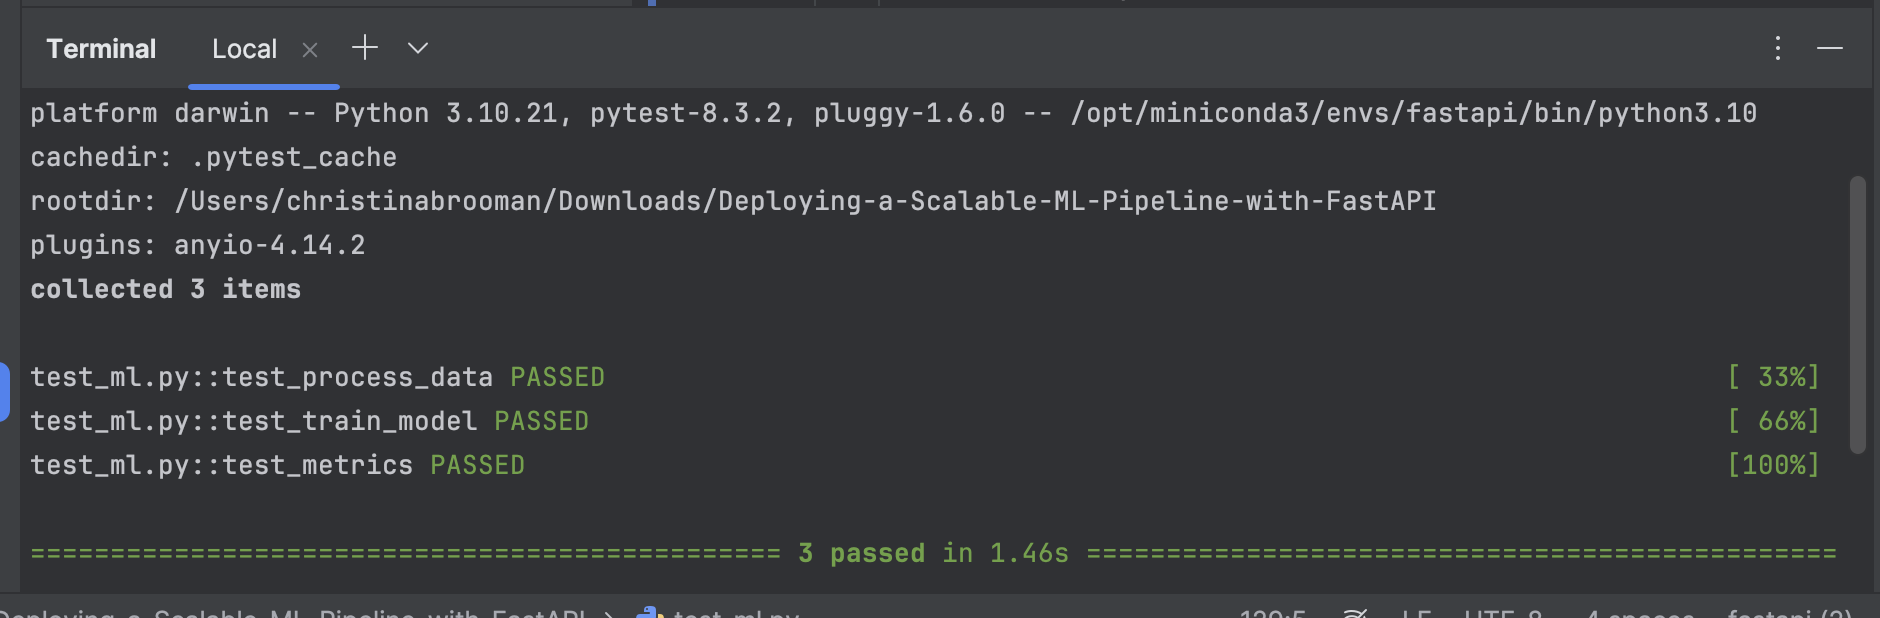
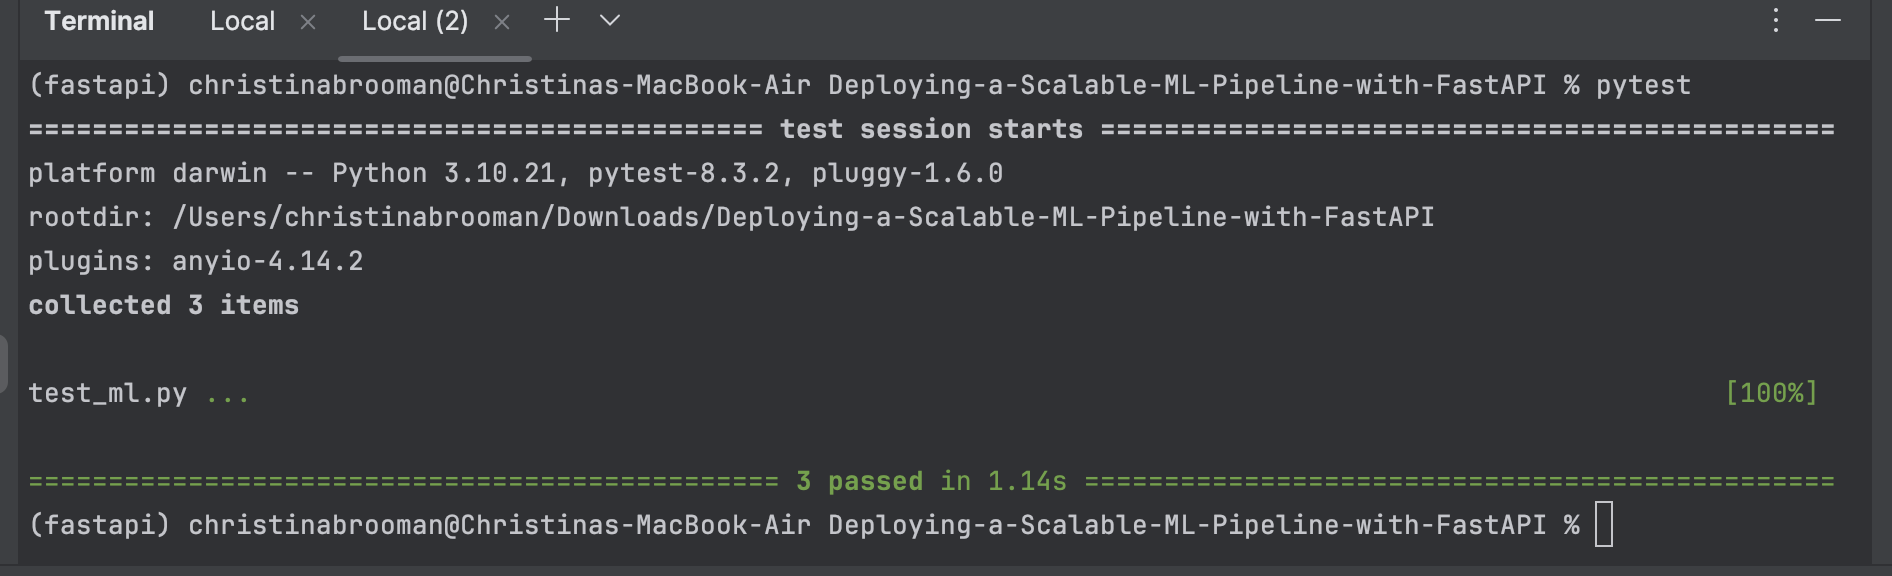
update test_metrics function, update for flake8, update unit_test.png

diff --git a/ml/data.py b/ml/data.py
@@ -4,26 +4,28 @@ from sklearn.preprocessing import LabelBinarizer, OneHotEncoder
 
 def process_data(
 
-    X, categorical_features=[], label=None, training=True, encoder=None, lb=None
+    X, categorical_features=[], label=None, training=True, encoder=None,
+        lb=None
 ):
     """ Process the data used in the machine learning pipeline.
 
-    Processes the data using one hot encoding for the categorical features and a
-    label binarizer for the labels. This can be used in either training or
-    inference/validation.
+    Processes the data using one hot encoding for the categorical features
+    and a label binarizer for the labels. This can be used in either
+    training or inference/validation.
 
-    Note: depending on the type of model used, you may want to add in functionality that
-    scales the continuous data.
+    Note: depending on the type of model used, you may want to add in
+    functionality that scales the continuous data.
 
     Inputs
     ------
     X : pd.DataFrame
-        Dataframe containing the features and label. Columns in `categorical_features`
+        Dataframe containing the features and label. Columns in
+        `categorical_features`
     categorical_features: list[str]
         List containing the names of the categorical features (default=[])
     label : str
-        Name of the label column in `X`. If None, then an empty array will be returned
-        for y (default=None)
+        Name of the label column in `X`. If None, then an empty array will be
+        returned for y (default=None)
     training : bool
         Indicator if training mode or inference/validation mode.
     encoder : sklearn.preprocessing._encoders.OneHotEncoder
@@ -38,11 +40,11 @@ def process_data(
     y : np.array
         Processed labels if labeled=True, otherwise empty np.array.
     encoder : sklearn.preprocessing._encoders.OneHotEncoder
-        Trained OneHotEncoder if training is True, otherwise returns the encoder passed
-        in.
+        Trained OneHotEncoder if training is True, otherwise returns the
+        encoder passed in.
     lb : sklearn.preprocessing._label.LabelBinarizer
-        Trained LabelBinarizer if training is True, otherwise returns the binarizer
-        passed in.
+        Trained LabelBinarizer if training is True, otherwise returns the
+        binarizer passed in.
     """
     if label is not None:
         y = X[label]
@@ -68,7 +70,10 @@ def process_data(
 
 
 def apply_label(inference):
-    """ Convert the binary label in a single inference sample into string output."""
+    """
+    Convert the binary label in a single inference
+    sample into string output.
+    """
     if inference[0] == 1:
         return ">50K"
     elif inference[0] == 0:

diff --git a/test_ml.py b/test_ml.py
@@ -3,6 +3,7 @@ import pytest
 from sklearn.ensemble import RandomForestClassifier
 from ml.data import process_data
 from ml.model import compute_model_metrics, train_model
+import numpy as np
 
 
 # Fixture
@@ -126,33 +127,16 @@ def test_train_model(mock_census_data):
 # Test three
 def test_metrics(mock_census_data):
     """
-    This function tests if the metrics function returns the expected outputs.
+    This function tests if the metrics function returns the exact outputs
+    for precision, recall, and fbeta
     """
-    cat_features = [
-        "workclass",
-        "education",
-        "marital-status",
-        "occupation",
-        "relationship",
-        "race",
-        "sex",
-        "native-country",
-    ]
-    X, y, _, _ = process_data(
-        mock_census_data,
-        categorical_features=cat_features,
-        label="salary",
-        training=True,
-    )
-    model = train_model(X, y)
-    preds = model.predict(X)
+    # Actual values
+    y = np.array([1, 1, 1, 0])
+    preds = np.array([1, 1, 0, 0])
+
     precision, recall, fbeta = compute_model_metrics(y, preds)
 
-    # Confirms all metrics are returned as floats
-    assert isinstance(precision, float)
-    assert isinstance(recall, float)
-    assert isinstance(fbeta, float)
-    # Confirms metrics are valid probability numbers between 0 and 1
-    assert 0.0 <= precision <= 1.0
-    assert 0.0 <= recall <= 1.0
-    assert 0.0 <= fbeta <= 1.0
+    # Confirms exact metrics
+    assert precision == 1.0
+    np.testing.assert_allclose(recall, 2 / 3, atol=1e-4)
+    np.testing.assert_allclose(fbeta, 0.8, atol=1e-4)

diff --git a/README.md b/README.md
@@ -1,3 +1,6 @@
+Github repository link: 
+https://github.com/woolabear/Deploying-a-Scalable-ML-Pipeline-with-FastAPI
+
 Working in a command line environment is recommended for ease of use with git and dvc. If on Windows, WSL1 or 2 is recommended.
 
 # Environment Set up (pip or conda)
